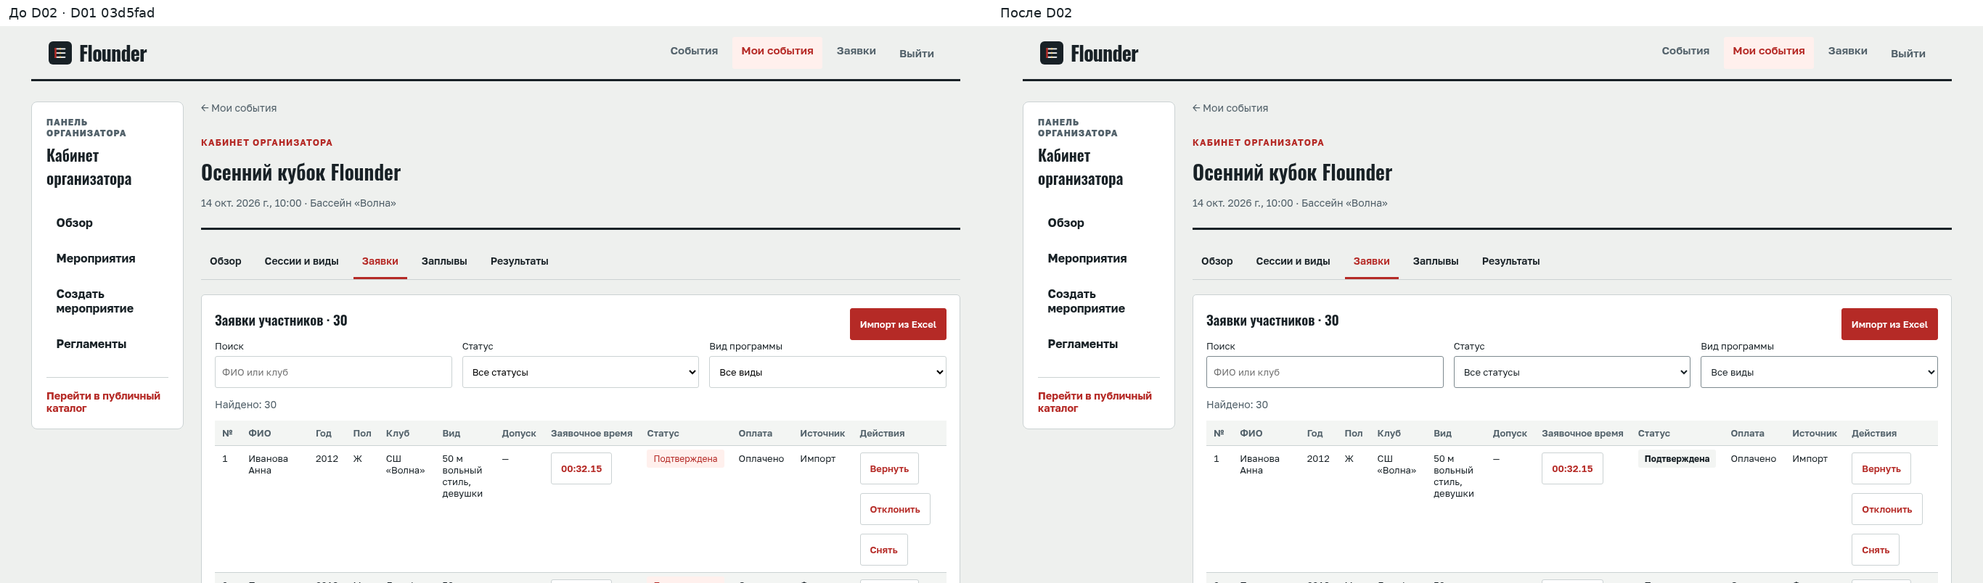
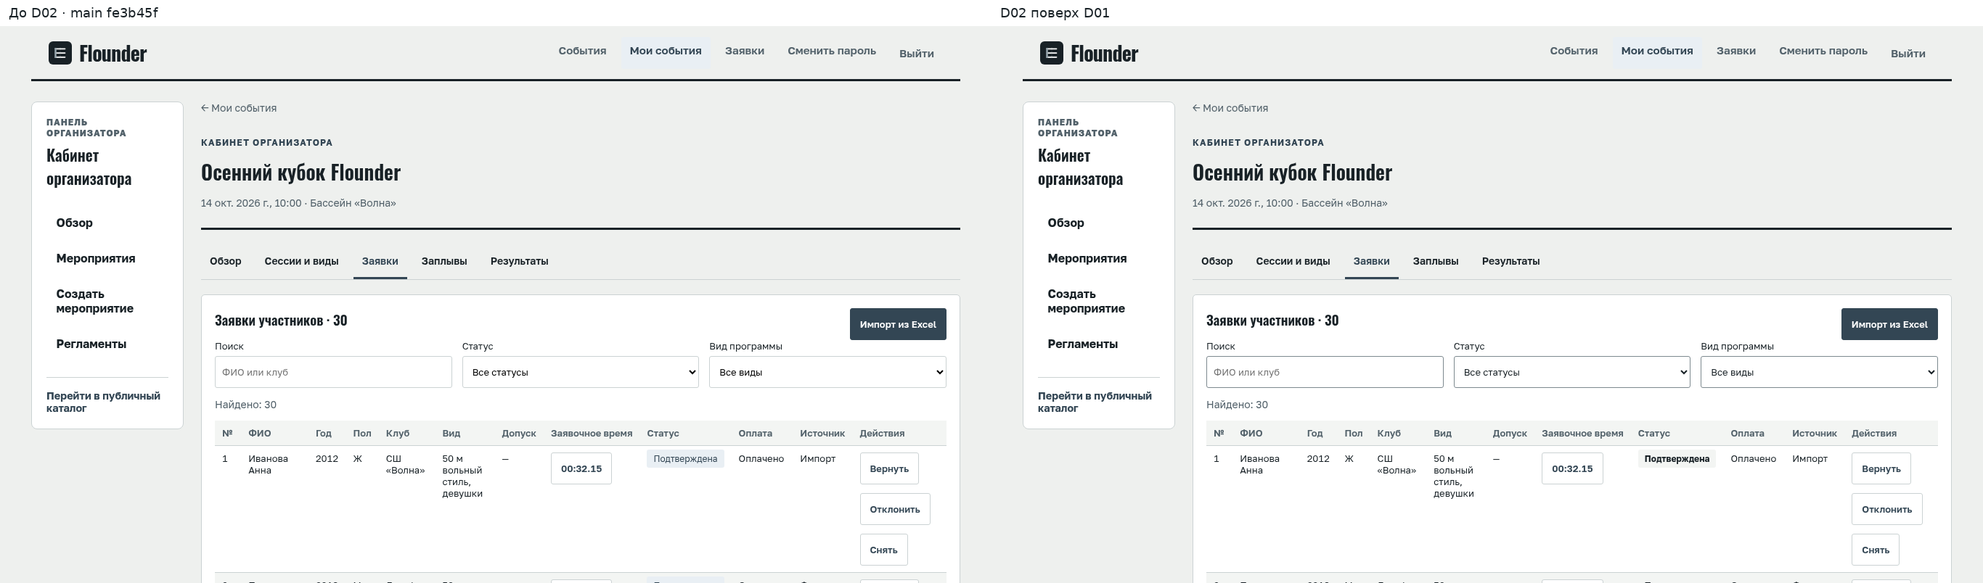
fix(frontend): integrate D02 with merged D01 and M03

diff --git a/sport-platform/frontend/e2e/qa06-theme.spec.ts b/sport-platform/frontend/e2e/qa06-theme.spec.ts
@@ -1,6 +1,8 @@
 import { test, expect } from '@playwright/test'
 import { openAuditPage, unitId, eventId, navigate } from './qa06-helpers'
 
+test.use({ viewport: { width: 375, height: 812 }, colorScheme: 'light' })
+
 test('D02: theme is set before the application loads', async ({ page }) => {
   await page.emulateMedia({ colorScheme: 'light' })
   await page.route('**/src/main.tsx', route => route.abort())
@@ -15,6 +17,7 @@ test('D02: explicit theme survives navigation and reload, including a light live
   await expect(page.locator('html')).toHaveAttribute('data-theme', 'dark')
   await page.getByRole('button', { name: 'Светлая тема' }).click()
   await expect(page.locator('html')).toHaveAttribute('data-theme', 'light')
+  await expect(page.locator('body')).toHaveCSS('background-color', 'rgb(238, 240, 238)')
   await expect(page.locator('section[aria-live]').first()).toHaveCSS('background-color', 'rgb(255, 255, 255)')
   await page.getByRole('link', { name: 'Результаты', exact: true }).click()
   await expect(page.locator('html')).toHaveAttribute('data-theme', 'light')
@@ -48,6 +51,30 @@ test('D02: printing a dark results page uses white surfaces and hides the toggle
   await expect(page.locator('body')).toHaveCSS('background-color', 'rgb(255, 255, 255)')
   await expect(page.getByRole('button', { name: 'Светлая тема' })).toBeHidden()
   expect(await page.locator('html').evaluate(el => getComputedStyle(el).getPropertyValue('--color-warning-soft').trim())).toBe('#ffffff')
+})
+
+for (const route of ['start-list', 'results']) {
+  test(`D02 over D01/M03: ${route} keeps PDF and ghost print actions in both themes at 375px`, async ({ page }) => {
+    await openAuditPage(page, `/e/demo/${route}`)
+    for (const theme of ['light', 'dark']) {
+      if (await page.locator('html').getAttribute('data-theme') !== theme)
+        await page.locator('header button').click()
+      await expect(page.getByRole('button', { name: 'Скачать PDF', exact: true })).toBeEnabled()
+      await expect(page.getByRole('button', { name: 'Печать', exact: true })).toHaveClass(/fl-button-ghost/)
+      expect(await page.locator('html').evaluate(el => getComputedStyle(el).colorScheme)).toBe(theme)
+      expect(await page.evaluate(() => document.documentElement.scrollWidth <= innerWidth)).toBe(true)
+    }
+  })
+}
+
+test('D02: a mobile protocol keeps table semantics and supports keyboard scrolling', async ({ page }) => {
+  await openAuditPage(page, '/e/demo/live')
+  const table = page.locator('.fl-lanes').first()
+  await expect(table).toHaveAttribute('role', 'table')
+  await table.focus()
+  await expect(table).toBeFocused()
+  await table.press('ArrowRight')
+  await expect.poll(() => table.evaluate(el => el.scrollLeft)).toBeGreaterThan(0)
 })
 
 test('D02: 375px judge keeps lane and participant visible while scrolling and entering time', async ({ page }) => {

diff --git a/sport-platform/frontend/e2e/qa06-regression.spec.ts b/sport-platform/frontend/e2e/qa06-regression.spec.ts
@@ -356,10 +356,10 @@ test('D01 review 1: login card retains the four-pixel primary top border', async
 })
 
 for (const route of ['live', 'results']) {
-  test(`D01 owner: ${route} uses dark tokens without a theme attribute and prints on white`, async ({ page }) => {
+  test(`D01/D02 owner: ${route} defaults to dark tokens and prints on white`, async ({ page }) => {
     await openAuditPage(page, `/e/demo/${route}`)
     await expect(page.locator(route === 'live' ? '.fl-lanes' : '.fl-results').first()).toBeVisible()
-    expect(await page.locator('html').getAttribute('data-theme')).toBeNull()
+    await expect(page.locator('html')).toHaveAttribute('data-theme', 'dark')
     expect(await page.locator('html').evaluate(node => getComputedStyle(node).colorScheme)).toBe('dark')
     if (route === 'results') {
       await scenario(page, 'public/events/demo/results', { disciplines: [] })

diff --git a/sport-platform/frontend/src/features/public/Protocol.tsx b/sport-platform/frontend/src/features/public/Protocol.tsx
@@ -65,7 +65,7 @@ export function PrintButton({ ready }: { ready: boolean }) {
 
 export function LaneTable({ heat, lanes }: { heat: Heat; lanes: number }) {
   return (
-    <table className={`${styles.table} fl-protocol fl-lanes`}>
+    <table className={`${styles.table} fl-protocol fl-lanes`} role="table" tabIndex={0}>
       <caption className={styles.srOnly}>
         Дорожки заплыва №{heat.number}
       </caption>
@@ -162,7 +162,7 @@ export function ResultsTable({
       a.lastName.localeCompare(b.lastName, 'ru'),
   )
   return (
-    <table className={`${styles.table} fl-protocol fl-results`}>
+    <table className={`${styles.table} fl-protocol fl-results`} role="table" tabIndex={0}>
       <caption className={styles.srOnly}>
         Итоговый протокол{grouped ? ' по возрастной группе' : ''}
       </caption>

diff --git a/sport-platform/frontend/src/features/admin/Admin.module.css b/sport-platform/frontend/src/features/admin/Admin.module.css
@@ -32,7 +32,7 @@
   min-width: 0;
 }
 .heading > button { background: var(--color-primary); color: var(--color-on-primary); border-color: var(--color-primary); font-weight: 700; }
-.heading > button:disabled { background: var(--color-border-strong); border-color: var(--color-border-strong); opacity: 1; }
+.heading > button:disabled { background: var(--color-border-strong); border-color: var(--color-border-strong); color: var(--color-text-muted); opacity: 1; }
 .table { font-variant-numeric: tabular-nums; font-size: var(--text-sm); }
 .table th { color: var(--color-text-muted); background: var(--color-surface-muted); position: sticky; top: 0; z-index: 1; }
 .table tbody tr:nth-child(even) { background: var(--color-surface-muted); }

diff --git a/sport-platform/frontend/src/features/organizer/OrganizerEventPage.module.css b/sport-platform/frontend/src/features/organizer/OrganizerEventPage.module.css
@@ -261,9 +261,3 @@
 }
 .badge { background: var(--color-surface-muted); color: var(--color-text); font-weight: 700; }
 .dialog, .drawer { background: var(--color-surface); }
-.page .primary:disabled, .dialog .primary:disabled, .drawer .primary:disabled {
-  background: var(--color-border-strong);
-  border-color: var(--color-border-strong);
-  color: var(--color-on-primary);
-  opacity: 1;
-}

diff --git a/sport-platform/frontend/src/styles/globals.css b/sport-platform/frontend/src/styles/globals.css
@@ -92,8 +92,8 @@
 
 @media screen {
   [data-theme="dark"],
-  :root:has(.fl-live-page),
-  :root:has(.fl-results-page) {
+  :root:not([data-theme]):has(.fl-live-page),
+  :root:not([data-theme]):has(.fl-results-page) {
     color-scheme: dark;
     --color-page: #11181d;
     --color-surface: #182126;

diff --git a/sport-platform/frontend/src/features/auth/RegisterPage.module.css b/sport-platform/frontend/src/features/auth/RegisterPage.module.css
@@ -190,5 +190,4 @@
     grid-template-columns: 1fr;
   }
 }
-.submitButton:disabled { background: var(--color-border-strong); opacity: 1; }
 .card { border-top: 3px solid var(--color-text); }

diff --git a/sport-platform/frontend/src/features/public/Public.module.css b/sport-platform/frontend/src/features/public/Public.module.css
@@ -498,7 +498,6 @@
     --color-board-text: #182126;
     --color-board-muted: #52616a;
     --color-board-border: #cbd2d3;
-    --color-board-accent: #815400;
   }
 }
 

diff --git a/sport-platform/frontend/src/features/auth/LoginPage.module.css b/sport-platform/frontend/src/features/auth/LoginPage.module.css
@@ -143,4 +143,3 @@
 .registerPrompt a:hover {
   text-decoration: underline;
 }
-.submitButton:disabled { background: var(--color-border-strong); opacity: 1; }

diff --git a/scripts/subset-d02-fonts.py b/scripts/subset-d02-fonts.py
@@ -8,7 +8,7 @@ from fontTools import subset
 from fontTools.ttLib import TTFont
 
 parser = argparse.ArgumentParser(description=__doc__)
-parser.add_argument('--source-ref', default='03d5fadcdacbdc127fb6e421e1af880f1a9d9fc6')
+parser.add_argument('--source-ref', default='e76f3a853aecdbb8db8b880d0c5d25f31238b95a')
 args = parser.parse_args()
 root = pathlib.Path(__file__).resolve().parents[1]
 font_dir = 'sport-platform/frontend/public/fonts'

diff --git a/docs/design/D02_Проверка.md b/docs/design/D02_Проверка.md
@@ -1,80 +1,98 @@
-# D02 — проверка темы и визуальной доводки
+# D02 поверх слитого D01 — проверка
 
-13.10.2026, Москва. Ветка `feat/D02-theme-toggle`, база
-`origin/feat/D01-visual-style` (`03d5fadcdacbdc127fb6e421e1af880f1a9d9fc6`).
-D01 #30 открыт; перед переносом PR в main нужны merge его финальных правок,
-затем rebase на main после слияния D01. Новые миграции и эндпоинты отсутствуют.
+14.10.2026, Москва. Ветка `feat/D02-theme-toggle`, база **main `39249c7`**.
+D01 #30 слит как `e76f3a8`; в базе также M01 #37, QA04 #44, QA07 #42,
+M03 #33. Rebase перенёс только коммиты D02. Последнее обновление main #48
+содержит только документы, поэтому исходники совпадают с проверенным `fe3b45f`.
+Новых миграций и эндпоинтов в D02 нет.
 
-## Проверки
+## Что сохранено при rebase
+
+- Графитовый primary, danger/LIVE, центральные дорожки без заливки,
+  CORRECTED warning и непрозрачные disabled-состояния D01.
+- Компактное табло с восемью дорожками на 1366×768, целые годы/времена,
+  перенос фамилии и клуба между словами на 375.
+- PDF-кнопки и загрузка M03, изменения M01/QA07, исходные правила печати.
+- Все status/soft-сбросы D01 в print; добавлены accent-soft и on-primary.
+
+Конфликты в JudgePanelPage.module.css, globals.css и концепции разрешены
+с сохранением обеих задач. Автоматические dark-селекторы D01 ограничены
+`not([data-theme])`: явная светлая тема D02 теперь осветляет и body, и live.
+Судья сохраняет sticky-дорожку D01 и получает sticky-фамилию D02.
+Публичные таблицы имеют role=table/tabIndex=0: сохраняют семантику при
+mobile display:block и прокручиваются стрелками с клавиатуры.
+
+## Проверки после rebase
 
 | Проверка | Результат |
 |---|---|
-| Backend `mvn -q test`, Java 21 / Docker / Testcontainers | exit 0; 1136 tests, 45 suites, failures/errors/skips = 0 |
-| Frontend `npm run build` | exit 0, production build и PWA precache |
-| `npm run lint` | exit 0; 27 существующих предупреждений, новых нет |
-| `npm test` | Node runner: 1 passed; Vitest: 80 passed / 16 files |
-| Новые `qa06-theme.spec.ts` | 5 passed; bootstrap до React, сохранение/навигация, системная тема, печать, судья 375 |
-| Полный `npm run test:qa06` | exit 1: 30 passed (включая expected failures), 4 skipped, 1 failed — QA06-07/results |
-| `npm run test:demo`, настоящий локальный backend | exit 1; все 7 шагов выполнены, 3 soft errors только в шаге 4 |
-| Axe WCAG 2.1 A/AA | 32 scans, 0 violations: public event/live/results × light/dark × 1366/375; login/register/admin/users/organizations/sports/registration-requests/program/entries/my/judge × 1366/375 |
-| WOFF2 | 106 540 B; проверены русские буквы/Ё/ё, латиница, цифры, №, пунктуация, оси веса; Golos `tnum` сохранён |
-| Воспроизводимость субсетов | два запуска `scripts/subset-d02-fonts.py` дают одинаковые SHA-256 |
-| Скриншоты | 10 PNG, 866 044 B; исходники и журналы только в work |
+| Backend `mvn -q test`, Java 21 / Docker / Testcontainers | exit 0; **1343 tests / 60 suites**, failures/errors/skips = 0 |
+| `npm test` | Node runner: 1 passed; Vitest: **121 passed / 25 files** |
+| `npm run build` | exit 0, production build и PWA precache |
+| `npm run lint` | exit 0; 27 существующих warnings, новых нет |
+| Финальные D02 e2e, все на 375×812 | **8 passed**: bootstrap, выбор/сохранение/переходы, системная тема, print, PDF/ghost-действия M03 на двух страницах в двух темах, клавиатурная прокрутка, sticky-судья |
+| Полный `npm run test:qa06` | exit 1: **44 passed** (включая expected failures), **4 skipped**, **1 failed** — прежний QA06-07/results |
+| Axe WCAG 2.1 A/AA | **32 scans / 0 violations**: public event/live/results × light/dark × 1366/375; login/register/admin/users/organizations/sports/registration-requests/program/entries/my/judge × 1366/375 |
+| WOFF2 | **106 540 B**; кириллица/Ё/ё, латиница, цифры, №, пунктуация, variable axes и Golos tnum сохранены |
+| Воспроизводимость | исходные полные шрифты из слитого D01 e76f3a8; SHA-256 субсетов совпали с исходной реализацией D02 |
+| Скриншоты | **10 PNG / 841 158 B**, обновлены относительно main со слитым D01/M03 |
 
 Команды браузерных проверок выполнены с
-`PLAYWRIGHT_CHROMIUM_EXECUTABLE=/usr/bin/chromium`. Демо использует
-`DEMO_DATE=2026-10-24` по актуальному решению main о переносе демо.
-В шагах 5 и 7 добавлены строгие проверки `html[data-theme="dark"]`;
-оба шага завершились без ошибок. Нет pageerror и неожиданных HTTP-ошибок.
+`PLAYWRIGHT_CHROMIUM_EXECUTABLE=/usr/bin/chromium`. Старые e2e D01
+«тёмная тема без атрибута» обновлены под явный `data-theme=dark` D02;
+проверки цвета/пустых состояний/белой печати сохранены. Другие проверки
+не удалены и не ослаблены. Финальный desktop-тест D01 подтверждает,
+что весь текущий заплыв остаётся над нижней навигацией.
 
-После первой axe-проверки `aria-label` переключателя приведён к видимому
-тексту («Светлая тема» / «Тёмная тема»); 12 публичных сочетаний повторно
-проверены без нарушений. Ввод времени на 375 проверяет не только sticky,
-но и полную видимость поля после фокуса за пределами закреплённых столбцов.
-Области aria-live сохраняются при смене текста уведомлений.
+После первой post-rebase axe-проверки устранены нарушения клавиатурного
+доступа к прокручиваемым публичным таблицам. Все 12 публичных сочетаний
+повторно проверены без нарушений; 20 остальных сочетаний также зелёные.
+Проверка sticky подтверждает полную видимость поля времени после фокуса,
+дорожку/фамилию и сохранность decimal inputmode/маски времени.
 
-## Незелёные проверки и ограничения
+## Ограничения и исходные сбои
 
 QA06-07/results: третий пункт «Опубликовать результаты вида» disabled;
-ожидание enabled падает **до** отметки expected failure. Этот сбой уже
-описан в [D01 — проверка](D01_Проверка.md); D02 не меняет публикацию.
+ожидание enabled падает до отметки expected failure. Сбой уже описан
+в [D01 — проверка](D01_Проверка.md), публикация D02 не изменялась.
 
-Демо, шаг 4: QA05-01 — нет checkbox circleSeedTopHeats; QA05-03 —
-черновая печатная форма не содержит 32 сформированных заплыва; QA05-03 —
-тот же пустой черновик в PDF. Сообщения совпадают с описанными в D01
-результатами исходного main. Опубликованные стартовый и итоговый PDF
-сформированы, шаги 1–3 и 5–7 без ошибок. Проверки не удалены и не ослаблены.
+Полный demo после этого rebase не повторялся: текущий запрос требует
+frontend-проверки и e2e 375. Предыдущий реальный demo 13.10 выполнил
+все семь шагов; три soft errors были только в шаге 4 (QA05-01 checkbox
+circleSeedTopHeats и два QA05-03 пустого draft print). Шаги 5/7 тогда строго
+проверяли data-theme=dark и прошли, опубликованные PDF сформированы.
+Эти исторические результаты не выдаются за повторный прогон на новой базе.
 
-В backend остался известный shutdown warning Surefire после System.exit(0);
-процесс завершился с кодом 0, XML-отчёты без ошибок. Полные журналы локального
-прогона — в `work/d02/`, e2e/axe/исходные снимки — в `frontend/work/d02/`.
+В backend сохранился известный shutdown warning Surefire после System.exit(0);
+exit 0 и XML-отчёты без ошибок. Локальный MSW-судья может показывать прежнюю
+ошибку определения следующего заплыва из-за доступа к событию; та же фикстура
+снята на main, права/логика D02 не менялись. Физические Android/iOS и
+VoiceOver недоступны; проверены Chromium 375, role=table, фокус и ввод.
+Широкий селектор disabled из D01 оставлен; новые локальные правила D02
+ему не противоречат. API-клиенты, RBAC, данные и backend не менялись.
 
-Основная палитра, дорожки 4–5, CORRECTED, ghost-печать и компоновка табло
-на 8 дорожек остаются в D01 и его текущем ревью. D02 не дублирует эти правки:
-снимки фиксируют базу 03d5fad, поэтому финальные снимки/контрасты и
-пересечения CSS нужно перепроверить после обновления D01. Rebase на main
-не выполнялся, пока D01 не слит. Физическая телефонная клавиатура Android/iOS
-недоступна; проверены inputmode и мобильный Chromium. API, данные, тексты
-существующего интерфейса, роли и серверный код не менялись.
+Журналы backend находятся в `work/d02-rebase/`, frontend/e2e/axe/исходные
+снимки — в `frontend/work/d02-rebase/`; они не коммитятся.
 
 ## Как проверить вручную
 
 1. `cd sport-platform/frontend && npm ci`; `VITE_API_MOCK=true npm run dev`.
-   Открыть `/e/demo` со светлой системной темой и пустым `flounder.theme`:
+   Открыть `/e/demo` со светлой системой и пустым flounder.theme:
    страница светлая; `/e/demo/live` и `/e/demo/results` тёмные.
-2. Нажать «Светлая» на табло: вся страница и табло светлые. Перейти в
-   результаты, перезагрузить: выбор сохраняется. Повторить для «Тёмная».
-   Проверить клавиатурный фокус кнопки и системное предпочтение без выбора.
+2. Нажать «Светлая» на табло: body и таблица светлые. Перейти в результаты,
+   перезагрузить: выбор сохраняется. Повторить для «Тёмная», проверить
+   фокус кнопки, системную тему без выбора и синхронизацию вкладок.
 3. Открыть `/login`, затем вернуться к событию: форма светлая,
-   публичный выбор восстановлен. В отдельной вкладке изменить выбор:
-   обе вкладки синхронизируются.
-4. Войти судьёй и открыть заплыв; на 375 px прокрутить таблицу вправо:
-   дорожка и фамилия закреплены. Сфокусировать время: поле целиком видно,
-   24 px / 56 px, ввод цифр и Enter/Tab/Esc работают. Сохранить:
-   уведомления доступны скринридеру.
-5. Проверить «Заявки»/«Программа», `/admin/*`, регистрацию и «Мои заявки»
-   на 1366/375: поля, фокус, кнопки, бейджи, таблицы и пустые состояния.
-6. В тёмной теме открыть опубликованный протокол и печать: белая страница,
-   A4 / 15 мм, переключатель и навигация скрыты, заголовки повторяются.
-7. С локальным backend/PostgreSQL выполнить build/lint/test, QA06 и demo
-   по AGENTS.md и e2e/QA05-README.md; учесть перечисленные исходные сбои.
+   публичный выбор восстановлен. При блокировке localStorage кнопка
+   работает до reload.
+4. В панели судьи на 375 прокрутить таблицу: дорожка и фамилия закреплены.
+   Сфокусировать время: поле целиком видно, 24 px / 56 px, ввод цифр и
+   Enter/Tab/Esc работают. После сохранения уведомления доступны скринридеру.
+5. Проверить Заявки/Программу, `/admin/*`, регистрацию и Мои заявки
+   на 1366/375. На публичном протоколе Tab фокусирует таблицу,
+   стрелки прокручивают её; годы/время/слова не рвутся.
+6. Проверить сохранность «Скачать PDF» M03 и ghost «Печать» в двух темах.
+   Распечатать опубликованный протокол из dark: белый A4/15 мм,
+   навигация/переключатель скрыты, заголовки повторяются.
+7. Выполнить npm test/build/lint и test:qa06; для полного backend/demo
+   использовать AGENTS.md и e2e/QA05-README.md, учитывая исходные сбои выше.
